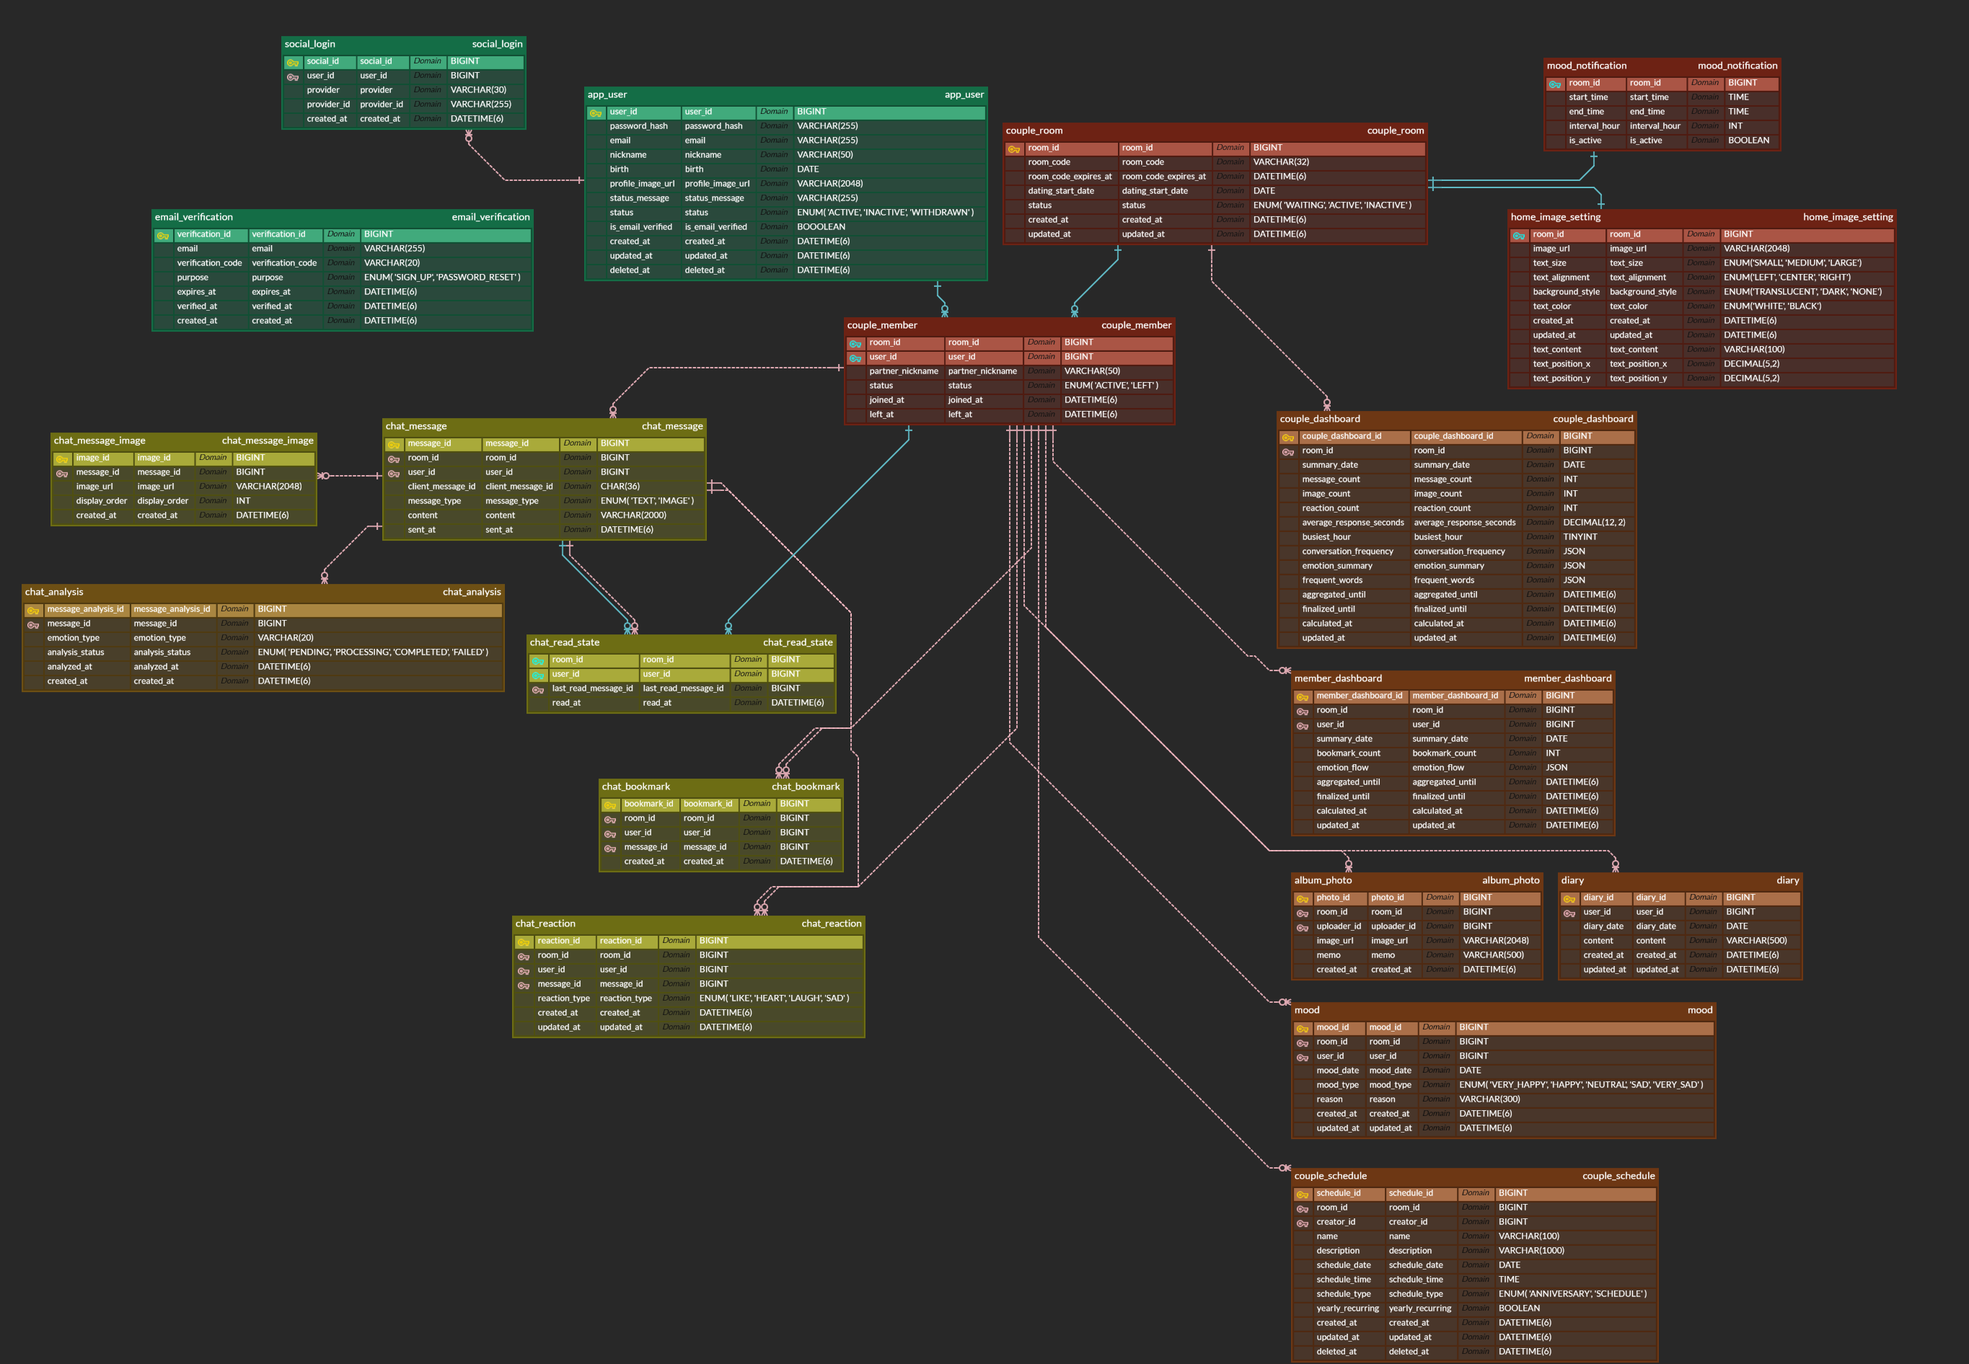
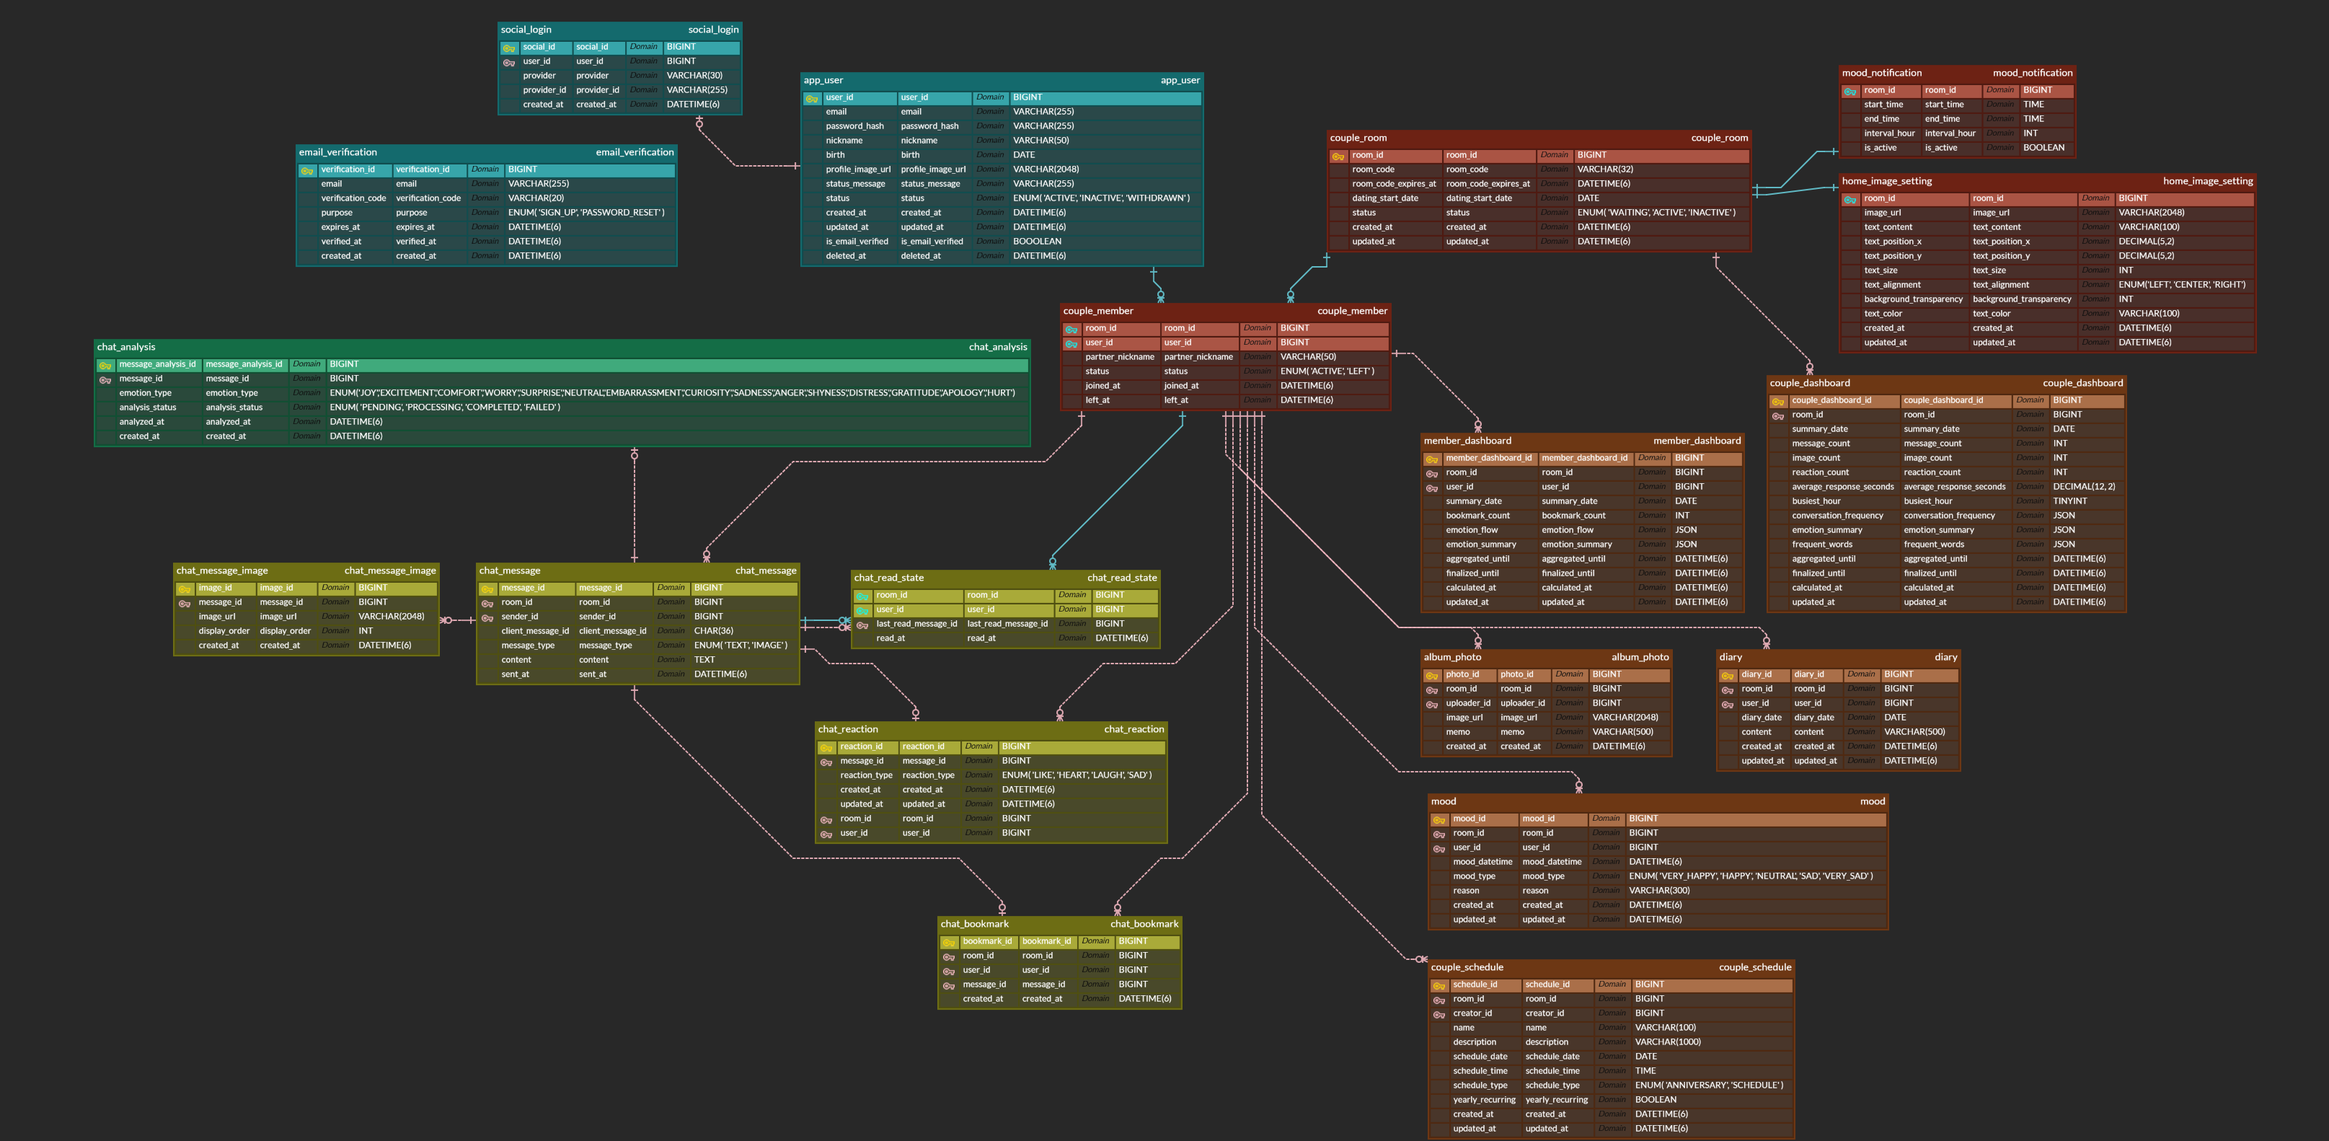
Docs: API 명세서, ERD 수정

diff --git a/DOCS/API 명세서.md b/DOCS/API 명세서.md
@@ -1,7 +1,7 @@
 # API 명세서
 
 날짜: 2026/07/22
-작성자: 최 한, 하영 기
+작성자: 최 한, 하영 기, 신승민
 상태: 검토필요
 
 | 200 OK | 요청 성공 |
@@ -181,159 +181,177 @@ src
          └─ ai
 ```
 
-## **1. Auth (인증)**
+## 1. 인증 (`/auth`)
 
-| **Method** | **URL** | **설명** |
+| Method | URL | 설명 | 요청값 | 인증 | 성공 응답 |
+| --- | --- | --- | --- | --- | --- |
+| POST | `/signup` | 회원가입 | body: `SignUpRequest` | 없음 | `SignUpResponse` |
+| POST | `/login` | 이메일 로그인 | `email*`, `password*` (query) | 없음 | `LoginResponse` |
+| POST | `/login/google` | 구글 소셜 로그인 | body: `GoogleLoginRequest` | 없음 | `LoginResponse` |
+| POST | `/refresh` | 토큰 재발급 | body: `TokenReissueRequest` | 없음 | `TokenResponse` |
+| POST | `/logout` | 로그아웃 | 없음 | 없음 | 응답 데이터 없음 |
+| GET | `/email-check` | 이메일 중복 확인 | `email*` (query) | 없음 | `Map<String, Boolean>` |
+| POST | `/email/send` | 회원가입 이메일 인증번호 발송 | body: `EmailSendRequest` | 없음 | 응답 데이터 없음 |
+| POST | `/email/verify` | 회원가입 이메일 인증번호 확인 | body: `EmailVerifyRequest` | 없음 | 응답 데이터 없음 |
+| POST | `/password/email` | 비밀번호 재설정 인증번호 발송 | body: `EmailSendRequest` | 없음 | 응답 데이터 없음 |
+| POST | `/password/verify` | 비밀번호 재설정 인증번호 확인 | body: `EmailVerifyRequest` | 없음 | 응답 데이터 없음 |
+| PATCH | `/password` | 비밀번호 재설정 | body: `PasswordResetRequest` | 없음 | 응답 데이터 없음 |
+
+## 2. 회원 (`/users`)
+
+| Method | URL | 설명 | 요청값 | 인증 | 성공 응답 |
+| --- | --- | --- | --- | --- | --- |
+| GET | `/me` | 내 프로필 조회 | 없음 | JWT | `MemberProfileResponse` |
+| PATCH | `/me` | 내 프로필 수정 | body: `ProfileUpdateRequest` | JWT | `MemberProfileResponse` |
+| DELETE | `/me` | 회원 탈퇴 | 없음 | JWT | 응답 데이터 없음 |
+| PATCH | `/me/password` | 로그인 사용자의 비밀번호 변경 | body: `PasswordChangeRequest` | JWT | 응답 데이터 없음 |
+| GET | `/profile-img` | 나와 상대방 프로필 이미지 조회 | 없음 | JWT | `MemberProfileImagesResponse` |
+| POST | `/profile-img` | 내 프로필 이미지 업로드 | multipart: 이미지 파일 | JWT | `MemberProfileImageResponse` |
+| GET | `/me/profile-img` | 내 프로필 이미지 조회 | 없음 | JWT | `MemberProfileImageResponse` |
+| GET | `/partner/profile-img` | 상대방 프로필 이미지 조회 | 없음 | JWT | `MemberProfileImageResponse` |
+| GET | `/partner-nickname` | 상대방 표시 닉네임 조회 | 없음 | JWT | `PartnerNicknameResponse` |
+| PATCH | `/partner-nickname` | 상대방 애칭 등록·수정 | body: `PartnerNicknameRequest` | JWT | `PartnerNicknameResponse` |
+| GET | `/status-message` | 상대방 상태 메시지 조회 | 없음 | JWT | `PartnerStatusMessageResponse` |
+
+## 3. 커플(`/couples`)
+
+| Method | URL | 설명 | 요청값 | 인증 | 성공 응답 |
+| --- | --- | --- | --- | --- | --- |
+| GET | `/room-id` | 현재 커플방 ID 조회 | 없음 | JWT | `CoupleRoomIdResponse` |
+| GET | `/status` | 커플 연결 상태 조회 | 없음 | JWT | `CoupleStatusResponse` |
+| POST | `/invitation` | 커플 초대 코드 생성 | 없음 | JWT | `CoupleInvitationResponse` |
+| POST | `/invitation/regenerate` | 커플 초대 코드 재생성 | 없음 | JWT | `CoupleInvitationResponse` |
+| POST | `/connect` | 초대 코드로 커플 연결 | body: `CoupleConnectRequest` | JWT | `CoupleConnectResponse` |
+| POST | `/reconnect` | 커플 재연결 | body: `CoupleReconnectRequest` | JWT | `CoupleConnectResponse` |
+| GET | `/startDate` | 연애 시작일 조회 | 없음 | JWT | `CoupleStartDateResponse` |
+| POST | `/startDate` | 연애 시작일 등록·수정 | body: `CoupleStartDateRequest` | JWT | `CoupleStartDateResponse` |
+| DELETE |  | 커플 연결 해제 | 없음 | JWT | `CoupleDisconnectResponse` |
+| GET | `/me/mood-notification-setting` | 기분 알림 설정 조회 | 없음 | JWT | `MoodNotificationResponse` |
+| PUT | `/me/mood-notification-setting` | 기분 알림 설정 변경 | body: `MoodNotificationUpdateRequest` | JWT | `MoodNotificationResponse` |
+
+## 4. 일정·기념일·일기
+
+### 일정(`/schedules`)
+
+| Method | URL | 설명 | 요청값 | 인증 | 성공 응답 |
+| --- | --- | --- | --- | --- | --- |
+| GET |  | 월별 일정 조회 | `year*`, `month*` (query) | JWT | `List<ScheduleResponse>` |
+| POST |  | 일정 등록 | body: `ScheduleCreateRequest` | JWT | `ScheduleResponse` |
+| PATCH | `/{scheduleId}` | 일정 수정 | `scheduleId*` (path), body: `ScheduleUpdateRequest` | JWT | `ScheduleResponse` |
+| DELETE | `/{scheduleId}` | 일정 삭제 | `scheduleId*` (path) | JWT | 응답 데이터 없음 |
+
+### 기념일(`/anniversaries`)
+
+| Method | URL | 설명 | 요청값 | 인증 | 성공 응답 |
+| --- | --- | --- | --- | --- | --- |
+| GET |  | 기념일 목록 조회 | 없음 | JWT | `List<ScheduleResponse>` |
+| POST |  | 기념일 등록 | body: `AnniversaryCreateRequest` | JWT | `ScheduleResponse` |
+| PATCH | `/{anniversaryId}` | 기념일 수정 | `anniversaryId*` (path), body: `AnniversaryUpdateRequest` | JWT | `ScheduleResponse` |
+| DELETE | `/{anniversaryId}` | 기념일 삭제 | `anniversaryId*` (path) | JWT | 응답 데이터 없음 |
+
+### 일기(`/diaries`)
+
+| Method | URL | 설명 | 요청값 | 인증 | 성공 응답 |
+| --- | --- | --- | --- | --- | --- |
+| GET |  | 일기 목록 조회 | 없음 | JWT | `List<DiaryResponse>` |
+| POST |  | 일기 등록 | body: `DiaryCreateRequest` | JWT | `DiaryResponse` |
+| PATCH | `/{diaryId}` | 일기 수정 | `diaryId*` (path), body: `DiaryUpdateRequest` | JWT | `DiaryResponse` |
+| DELETE | `/{diaryId}` | 일기 삭제 | `diaryId*` (path) | JWT | 응답 데이터 없음 |
+
+## 5. 기분 및 알림(`/moods`)
+
+| Method | URL | 설명 | 요청값 | 인증 | 성공 응답 |
+| --- | --- | --- | --- | --- | --- |
+| GET |  | 기분 기록 목록 조회 | 없음 | JWT | `List<MoodResponse>` |
+| POST |  | 기분 기록 등록 | body: `MoodCreateRequest` | JWT | `MoodCreateResponse` |
+| PATCH | `/{moodId}` | 기분 기록 수정 | `moodId*` (path), body: `MoodUpdateRequest` | JWT | `MoodUpdateResponse` |
+
+## 6. 홈 설정(`/home`)
+
+| Method | URL | 설명 | 요청값 | 인증 | 성공 응답 |
+| --- | --- | --- | --- | --- | --- |
+| GET | `/settings` | 커플 공용 홈 설정 조회 | 없음 | JWT | `HomeSettingResponse` |
+| PUT | `/settings` | 홈 문구 및 스타일 저장 | body: `HomeSettingUpdateRequest` | JWT | `HomeSettingResponse` |
+| POST | `/settings/image` | 커플 공용 홈 이미지 업로드 | multipart: 이미지 파일 | JWT | `HomeSettingResponse` |
+
+## 7. 앨범(`/photos`)
+
+| Method | URL | 설명 | 요청값 | 인증 | 성공 응답 |
+| --- | --- | --- | --- | --- | --- |
+| GET |  | 커플 앨범 사진 목록 조회 | 없음 | JWT | `List<AlbumPhotoResponse>` |
+| POST |  | 앨범 사진 업로드 | multipart: 이미지 파일, `memo` (query, 선택) | JWT | `AlbumPhotoResponse` |
+| PATCH | `/{photoId}/memo` | 사진 메모 수정 | `photoId*` (path), body: `MemoUpdateRequest` | JWT | `AlbumPhotoResponse` |
+| DELETE | `/{photoId}` | 앨범 사진 삭제 | `photoId*` (path) | JWT | 응답 데이터 없음 |
+
+## 8. 채팅(`/chats`)
+
+### 메시지
+
+| Method | URL | 설명 | 요청값 | 인증 | 성공 응답 |
+| --- | --- | --- | --- | --- | --- |
+| GET |  | 이전 채팅 메시지 조회 | `roomId*`, `beforeMessageId`, `size` (query) | JWT | `ChatHistoryResponse` |
+| GET | `/after` | 기준 메시지 이후 채팅 조회 | `roomId*`, `afterMessageId*`, `size` (query) | JWT | `ChatNewerHistoryResponse` |
+| GET | `/{messageId}/context` | 특정 메시지 주변 대화 조회 | `messageId*` (path), `beforeSize`, `afterSize` (query) | JWT | `ChatMessageContextResponse` |
+| POST |  | REST 방식 채팅 메시지 전송 | body: `ChatRestMessageRequest` | JWT | `ChatMessageResponse` |
+| GET | `/search` | 채팅 메시지 검색 | `roomId*`, `keyword*`, `beforeMessageId`, `size` (query) | JWT | `ChatHistoryResponse` |
+| POST | `/suggest` | AI 답장 문장 추천 | body: `ChatSuggestionRequest` | JWT | `ChatSuggestionResponse` |
+
+### 읽음 상태
+
+| Method | URL | 설명 | 요청값 | 인증 | 성공 응답 |
+| --- | --- | --- | --- | --- | --- |
+| POST | `/{messageId}/read` | 메시지 읽음 처리 | `messageId*` (path) | JWT | `ChatReadResponse` |
+| GET | `/unread-count` | 안 읽은 채팅 개수 조회 | `roomId*` (query) | JWT | `ChatUnreadCountResponse` |
+| GET | `/read-status` | 상대방 읽음 상태 조회 | `roomId*` (query) | JWT | `ChatReadStatusResponse` |
+
+### 공감
+
+| Method | URL | 설명 | 요청값 | 인증 | 성공 응답 |
+| --- | --- | --- | --- | --- | --- |
+| POST | `/{messageId}/reaction` | 메시지 공감 추가·변경 | `messageId*` (path), body: `ChatReactionRequest` | JWT | `ChatReactionResponse` |
+| DELETE | `/{messageId}/reaction` | 메시지 공감 취소 | `messageId*` (path) | JWT | `204 No Content` |
+
+### 북마크
+
+| Method | URL | 설명 | 요청값 | 인증 | 성공 응답 |
+| --- | --- | --- | --- | --- | --- |
+| POST | `/{messageId}/bookmark` | 메시지 북마크 저장 | `messageId*` (path) | JWT | `ChatBookmarkResponse` |
+| DELETE | `/{messageId}/bookmark` | 메시지 북마크 취소 | `messageId*` (path) | JWT | `204 No Content` |
+| GET | `/bookmarks` | 저장한 메시지 목록 조회 | `roomId*`, `beforeBookmarkId`, `size`, `period`, `date` (query) | JWT | `ChatBookmarkListResponse` |
+
+### 채팅 이미지
+
+| Method | URL | 설명 | 요청값 | 인증 | 성공 응답 |
+| --- | --- | --- | --- | --- | --- |
+| POST | `/chat/images` | 채팅 이미지 업로드 | `roomId*` (query), multipart: 이미지 파일 | JWT | `201 ChatImageUploadResponse` |
+| DELETE | `/images/{imageId}` | 채팅 이미지 삭제 | `imageId*` (path) | JWT | `ChatImageDeleteResponse` |
+
+## 9. 대시보드(`/dashboards`)
+
+`period` 값은 `DAY`, `WEEK`, `MONTH`, `YEAR`, `ALL` 중 하나입니다.
+
+| Method | URL | 설명 | 요청값 | 인증 | 성공 응답 |
+| --- | --- | --- | --- | --- | --- |
+| GET | `/me/counts` | 기간별 개인 기록 조회 | `roomId*`, `period`, `date` (query) | JWT | `MemberDashboardCountResponse` |
+| GET | `/couple/counts` | 기간별 커플 정량 기록 조회 | `roomId*`, `period`, `date` (query) | JWT | `DashboardCountResponse` |
+| GET | `/couple/emotion-flow` | 기간별 커플 감정 흐름 조회 | `roomId*`, `period`, `date` (query) | JWT | `DashboardCoupleEmotionFlowResponse` |
+| GET | `/couple/main-emotions` | 사용자별 주요 감정 조회 | `roomId*`, `period`, `date` (query) | JWT | `DashboardCoupleMainEmotionResponse` |
+| GET | `/couple/frequent-words` | 커플이 자주 사용한 단어 조회 | `roomId*`, `period`, `date`, `limit` (query) | JWT | `DashboardFrequentWordsResponse` |
+| GET | `/couple/conversation-flow` | 기간별 커플 대화 흐름 조회 | `roomId*`, `period`, `date` (query) | JWT | `DashboardConversationFlowResponse` |
+
+## 10. WebSocket 채팅
+
+| 구분 | 주소 | 설명 |
 | --- | --- | --- |
-| POST | `/auth/signup` | 이메일 회원가입 |
-| GET | `/auth/email-check` | 이메일 중복 확인 |
-| POST | `/auth/login` | 이메일 로그인 |
-| POST | `/auth/logout` | 로그아웃 |
-| POST | `/auth/refresh` | Access Token 재발급 |
-| POST | `/auth/password/email` | 비밀번호 재설정 이메일 발송 |
-| POST | `/auth/password/verify` | 인증번호 확인 |
-| PATCH | `/auth/password` | 비밀번호 재설정 |
-| POST | `/auth/email/send` | 이메일 인증코드 발송 |
-| POST | `/auth/email/verify` | 이메일 인증코드 확인 |
-| GET | `/auth/social/{provider}` | 소셜 로그인 (카카오/네이버/구글) |
+| 연결 | `/ws` | STOMP WebSocket 연결 |
+| 메시지 전송 | `/pub/chat/rooms/{roomId}/messages` | 채팅 메시지 전송 |
+| 메시지 구독 | `/sub/chat/rooms/{roomId}/messages` | 채팅 메시지 수신 |
+| 감정 분석 구독 | `/sub/chat/rooms/{roomId}/analysis` | 메시지 감정 분석 결과 수신 |
+| 읽음 전송 | `/pub/chat/rooms/{roomId}/read` | 읽음 상태 전송 |
+| 읽음 구독 | `/sub/chat/rooms/{roomId}/read` | 상대방 읽음 상태 수신 |
+| 개인 오류 구독 | `/user/queue/errors` | 인증·채팅 오류 수신 |
 
-[Auth (인증)](Auth%20(%EC%9D%B8%EC%A6%9D)%203a70300302a880e5b9c5d5e26cc2dd9d.csv)
-
----
-
-## **2. User (회원 관리)**
-
-| **Method** | **URL** | **설명** |
-| --- | --- | --- |
-| GET | `/users/me` | 내 프로필 조회 |
-| PATCH | `/users/me` | 내 프로필 수정 |
-| DELETE | `/users/me` | 회원 탈퇴 |
-| PATCH | `/users/me/password` | 비밀번호 변경 |
-| GET | `/users/me/notifications` | 알림 설정 조회 |
-| PATCH | `/users/me/notifications` | 알림 설정 변경 |
-
-[User (회원 관리)](User%20(%ED%9A%8C%EC%9B%90%20%EA%B4%80%EB%A6%AC)%203a70300302a88006a047c30a24644730.csv)
-
----
-
-## **3. Couple (커플 연결)**
-
-| **Method** | **URL** | **설명** |
-| --- | --- | --- |
-| POST | `/couples/invitation` | 커플 초대 코드 생성 |
-| POST | `/couples/connect` | 초대 코드 입력 후 커플 연결 |
-| GET | `/couples/me` | 현재 커플 정보 조회 |
-| DELETE | `/couples` | 커플 연결 해제 |
-| POST | `/couples/reconnect` | 기존 커플방 재연결 |
-
-[Couple (커플 연결)](Couple%20(%EC%BB%A4%ED%94%8C%20%EC%97%B0%EA%B2%B0)%203a70300302a880ccb3fceafade8621ac.csv)
-
----
-
-## **4. Chat (채팅)**
-
-| **Method** | **URL** | **설명** |
-| --- | --- | --- |
-| GET | `/chats` | 채팅 내역 조회 |
-| POST | `/chats` | 메시지 전송 (REST, WebSocket 병행) |
-| PATCH | `/chats/{messageId}` | 메시지 수정 (5분 이내) |
-| DELETE | `/chats/{messageId}` | 메시지 삭제 |
-| POST | `/chats/{messageId}/read` | 메시지 읽음 처리 |
-| GET | `/chats/search` | 메시지 검색 |
-| POST | `/chats/{messageId}/bookmark` | 메시지 저장 (북마크) |
-| DELETE | `/chats/{messageId}/bookmark` | 저장 취소 |
-| GET | `/chats/bookmarks` | 저장한 메시지(하이라이트) 모아보기 |
-
-[Chat (채팅)](Chat%20(%EC%B1%84%ED%8C%85)%203a70300302a880ffa999e70808098a6e.csv)
-
----
-
-## **5. Mood (오늘의 기분)**
-
-| **Method** | **URL** | **설명** |
-| --- | --- | --- |
-| POST | `/moods` | 기분 등록 |
-| PATCH | `/moods/{moodId}` | 기분 수정 |
-| GET | `/moods` | 기분 조회 (본인/상대방) |
-| GET | `/moods/tracking` | 무드 트래킹 (시간별 감정 변화) |
-
-[Mood (오늘의 기분)](Mood%20(%EC%98%A4%EB%8A%98%EC%9D%98%20%EA%B8%B0%EB%B6%84)%203a70300302a880ceac6fea4473d7ae7a.csv)
-
----
-
-## **6. Calendar (캘린더)**
-
-### **6-1. 일정 (Schedule)**
-
-| **Method** | **URL** | **설명** |
-| --- | --- | --- |
-| GET | `/schedules` | 일정 목록 조회 |
-| POST | `/schedules` | 일정 등록 |
-| PATCH | `/schedules/{scheduleId}` | 일정 수정 |
-| DELETE | `/schedules/{scheduleId}` | 일정 삭제 |
-
-[Calendar (캘린더) - 일정](Calendar%20(%EC%BA%98%EB%A6%B0%EB%8D%94)%20-%20%EC%9D%BC%EC%A0%95%203a70300302a880459adce8bea7219828.csv)
-
-### **6-2. 기념일 (Anniversary)**
-
-| **Method** | **URL** | **설명** |
-| --- | --- | --- |
-| GET | `/anniversaries` | 기념일 목록 조회 |
-| POST | `/anniversaries` | 기념일 등록 |
-| PATCH | `/anniversaries/{anniversaryId}` | 기념일 수정 |
-| DELETE | `/anniversaries/{anniversaryId}` | 기념일 삭제 |
-
-[Calendar (캘린더) - 기념일](Calendar%20(%EC%BA%98%EB%A6%B0%EB%8D%94)%20-%20%EA%B8%B0%EB%85%90%EC%9D%BC%203a70300302a8806985c9dfa58186e8d2.csv)
-
-### **6-3. 한줄 일기 (Diary)**
-
-| **Method** | **URL** | **설명** |
-| --- | --- | --- |
-| GET | `/diaries` | 한줄 일기 목록 조회 |
-| POST | `/diaries` | 한줄 일기 작성 (100자 이내) |
-| PATCH | `/diaries/{diaryId}` | 한줄 일기 수정 |
-| DELETE | `/diaries/{diaryId}` | 한줄 일기 삭제 |
-
-[Calendar (캘린더) - 한줄 일기](Calendar%20(%EC%BA%98%EB%A6%B0%EB%8D%94)%20-%20%ED%95%9C%EC%A4%84%20%EC%9D%BC%EA%B8%B0%203a70300302a880dea751fc39acf82ae7.csv)
-
----
-
-## **7. Album (앨범)**
-
-| **Method** | **URL** | **설명** |
-| --- | --- | --- |
-| GET | `/photos` | 사진 전체 조회 (피드/채팅 구분) |
-| POST | `/photos` | 사진 업로드 (메모 포함) |
-| DELETE | `/photos/{photoId}` | 사진 삭제 |
-| PATCH | `/photos/{photoId}/memo` | 사진 메모 작성/수정 |
-
-[Album (앨범)](Album%20(%EC%95%A8%EB%B2%94)%203a70300302a8807cb19bd47411547121.csv)
-
----
-
-## **8. Analysis (분석)**
-
-| **Method** | **URL** | **설명** |
-| --- | --- | --- |
-| GET | `/analysis/emotion-flow` | 감정 흐름 (2시간 단위 긍정/부정) |
-| GET | `/analysis/frequent-words` | 자주 사용하는 단어 |
-| GET | `/analysis/emotions` | 주요 감정 (일/월/년 %) |
-| GET | `/analysis/conversation` | 대화 흐름 (활발한 시간/응답 속도) |
-| GET | `/analysis/statistics` | 정량적 기록 (사진 수/반응 수) |
-
-[Analysis (분석)](Analysis%20(%EB%B6%84%EC%84%9D)%203a70300302a8808382d6eafdda116881.csv)
-
----
-
-## **9. AI (AI 기능)**
-
-| **Method** | **URL** | **설명** |
-| --- | --- | --- |
-| POST | `/ai/reply-suggestion` | 답장 교정 (문장 단위 추천) |
-| POST | `/ai/irony-analysis` | 반어 표현 분석 |
-| POST | `/ai/emotion-analysis` | 메시지 감정 분석 |
-
-[AI (AI 기능)](AI%20(AI%20%EA%B8%B0%EB%8A%A5)%203a70300302a88062a897dd39032de08a.csv)
+[11. AI (AI 기능)](11%20AI%20(AI%20%EA%B8%B0%EB%8A%A5)%203a70300302a88062a897dd39032de08a.csv)
 
 ## **📌 참고사항 (팀 공유용)**
 
